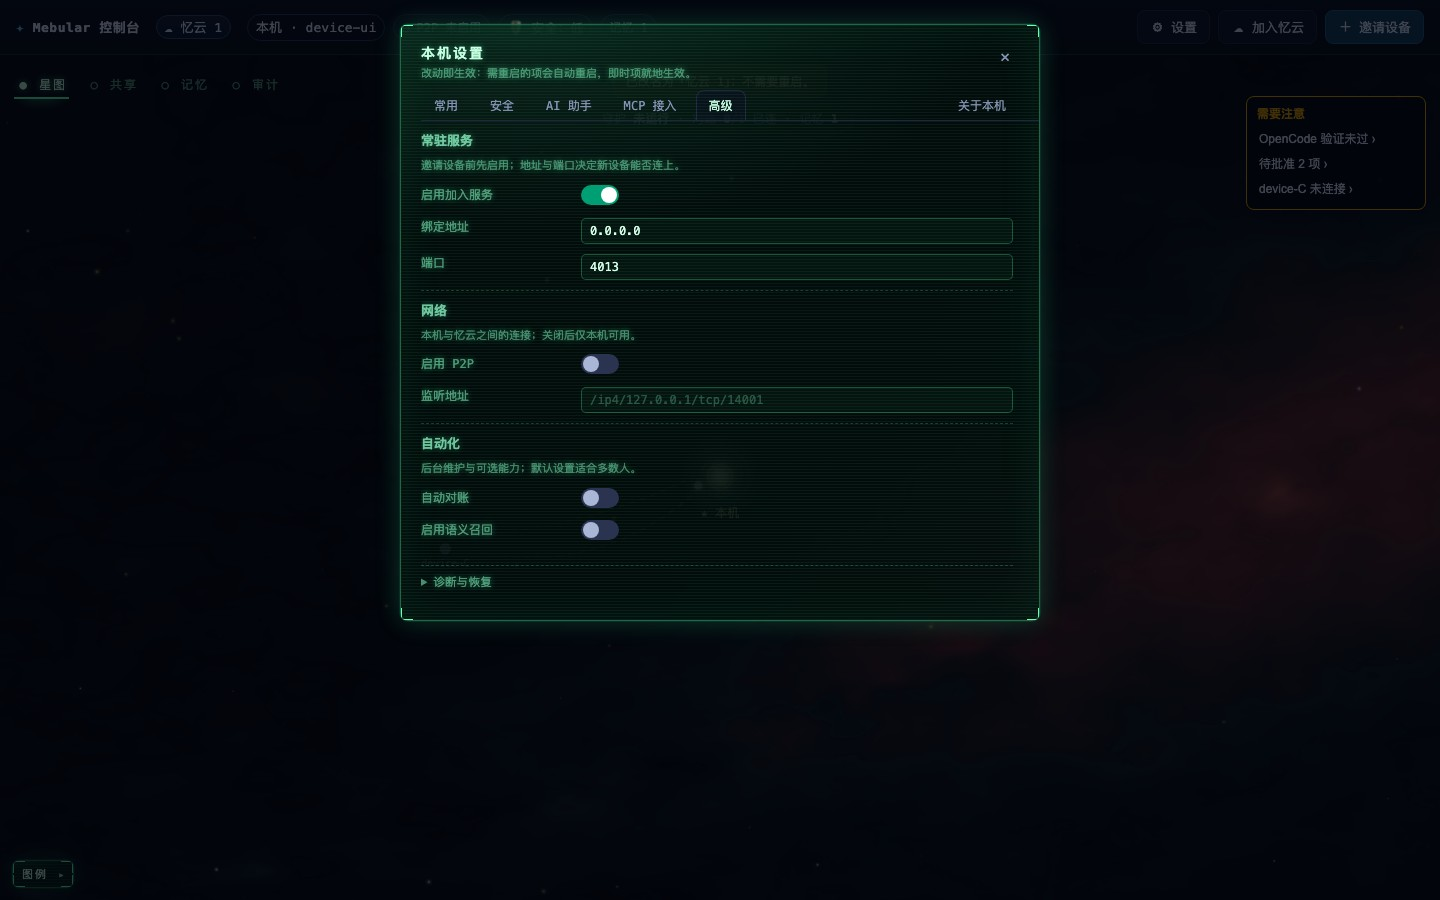
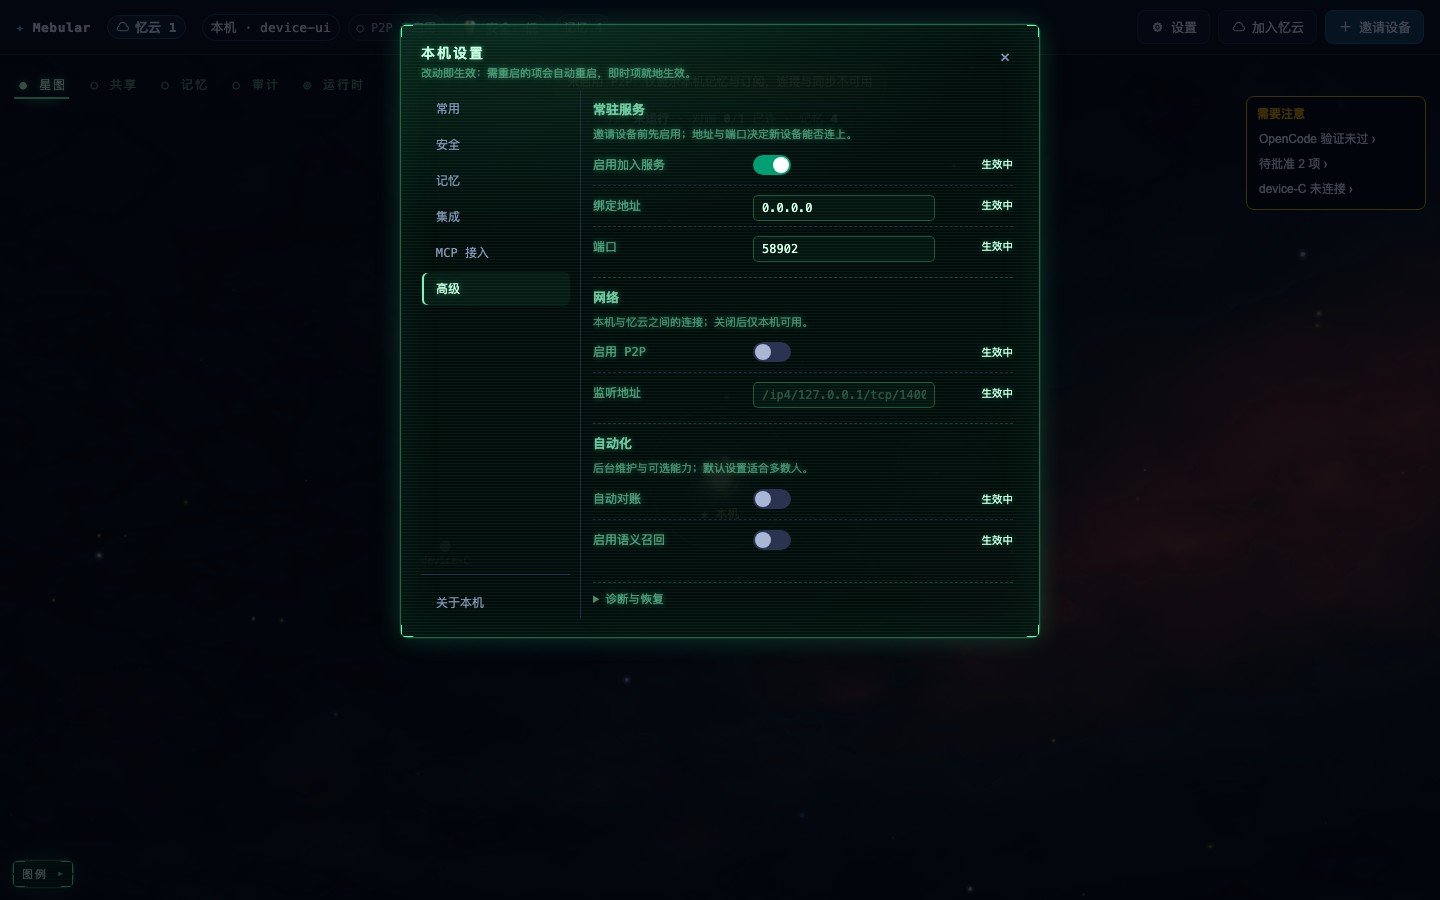
docs(console): refresh settings redesign baselines
- u4: 新增设置弹层改版基线（1440 常用/记忆/安全/MCP/高级、900 记忆/安全、
  390 常用/记忆/安全、en-US 记忆/安全/常用、reduced-motion、rail 固定、
  关于本机叠层），新增 README 说明范围/文件表/复跑命令/既有 fake-sidecar 失败。
- u1/u3: 刷新 U-4 后的设置截图（u1 常用 1440/390 改为脚本输出名），
  README 注明刷新范围与最新基线位置；page-map 增加 u4 目录链接。
- console.css: 640 外框减 160 竖轨后，en-US 常驻行动作按钮被挤出内容列
  （桌面 i18n 密度断言 1440/1024 scrollerOver=75）；按向导/修复行同一策略
  收紧 .settings-resident，修复后 scrollerOver=0。
- verify-console-ui.mjs: 英文深度页断言期待旧文案 Add assistant，
  实际与中文“＋ 接入 Agent”一致为 + Add agent，改为 /Add agent/。

diff --git a/packages/console/console.css b/packages/console/console.css
@@ -1891,6 +1891,13 @@ body.modal-open { overflow: hidden; }
 .asst-detail-actions { display: flex; flex-wrap: wrap; gap: 6px; margin-top: 6px; }
 .asst-output { margin-top: 4px; }
 .settings-resident { margin-bottom: 4px; }
+/* U-4 收口：640 外框 − 160px 竖轨后内容列约 420px；英文「Not resident (temporary)」等长状态
+   会把动作按钮挤出可视区。常驻行与重启向导/自动修行同一策略：名称不占固定宽、说明可收缩换行、
+   动作按钮永不收缩；≤760 的整行换行规则继续生效。 */
+.settings-resident .asst-name { flex: 0 1 auto; min-width: 0; }
+.settings-resident .asst-st { flex: 1 1 auto; min-width: 0; overflow-wrap: anywhere; }
+.settings-resident .asst-sp { flex: 0 1 0; min-width: 0; }
+.settings-resident .asst-row .btn { flex: 0 0 auto; white-space: nowrap; }
 /* 语言行：专用单行控件 + 虚线分隔（不复用 .asst-row，不另起卡片）。
    控件外观对齐 .crt-input：同高、同边框/圆角/底色/focus ring；原生箭头隐藏后
    由 wrapper 的固定 chevron 承担，避免各平台 select 外观漂移。 */

diff --git a/docs/console/screens/u4-settings-redesign/README.md b/docs/console/screens/u4-settings-redesign/README.md
@@ -1,0 +1,104 @@
+# U-4 · 设置弹层改版（竖轨 + 统一行模板 + 安全卡状态）截图基线
+
+基线：`feat/console-settings-redesign` 的 A–E 六次提交之后（rebase 前 E 提交为 `0d1d43b`）。本目录补的是 U-4 改版后的设置弹层视觉基线；U-1 / U-3 目录里对应的 after 截图已同步刷新。
+
+## 范围
+
+- **竖轨**：≥901px 为左侧 160px 固定页签轨（`常用 / 安全 / 记忆 / 集成 / MCP 接入 / 高级`，底部「关于本机」）；≤900px 折叠为顶部横排；≤760px 继续换行。
+- **固定外壳**：标题 + 「改动即生效」提示常驻，页签轨不滚，只有内容列 `.settings-scroll` 滚动；滚动时轨与底部「关于本机」不动。
+- **统一行模板**：字段行 `label | control | status` 三列，只读行 `label | value | action`；正常状态显示纯文字「生效中」，异常才是琥珀「待重启 / 未生效」。
+- **模型来源在记忆页**：`记忆` 页签内「记忆模式 → 模型来源 → 模型状态 → 运行状态」，高级页不再混入模型来源。
+- **安全卡状态**：三张状态卡（安全等级 / 动态码种子 / 恢复码），`is-effective`（实心点 + 左侧荧光条）/ `is-off`（空心点 + 中性底）；待批准行只在有记录时出现。
+- **关于本机叠层**：设置轨底部「关于本机」在设置之上打开只读面板，设置保持打开。
+
+## 截图
+
+### 1440 × 900（zh-CN）
+
+| 文件 | 说明 |
+|---|---|
+| `u4-after-settings-common-1440.jpg` | 常用：语言行 + 常驻运行 + 自动修复 + 只读状态 + 忆云卡 |
+| `u4-after-settings-memory-1440.jpg` | 记忆：记忆模式 / 模型来源（唯一入口）/ 模型状态 / 运行状态 |
+| `u4-after-settings-security-1440.jpg` | 安全：三张状态卡 = 生效（等级）+ 未配置（种子/恢复码） |
+| `u4-after-settings-mcp-1440.jpg` | MCP 接入：连接 / TLS 两组 + 三列状态列 |
+| `u4-after-settings-advanced-1440.jpg` | 高级：常驻服务 / 网络 / 自动化 + 诊断与恢复折叠 |
+| `u4-after-settings-rail-scrolled-1440.jpg` | 记忆页滚到中部：标题、竖轨、底部「关于本机」保持不动 |
+| `u4-after-settings-about-overlay-1440.jpg` | 关于本机叠在设置之上（设置不关闭） |
+
+### 900 × 900（zh-CN，竖轨折叠为顶部横排）
+
+| 文件 | 说明 |
+|---|---|
+| `u4-after-settings-memory-900.jpg` | 记忆：顶部横排页签 + 长内容滚动 |
+| `u4-after-settings-security-900.jpg` | 安全：三张状态卡在横排页签下不溢出 |
+
+### 390 × 844（zh-CN，无横向滚动）
+
+| 文件 | 说明 |
+|---|---|
+| `u4-after-settings-common-390.jpg` | 常用：页签换行、常驻/修复行不挤压按钮 |
+| `u4-after-settings-memory-390.jpg` | 记忆：模型来源下拉整行 |
+| `u4-after-settings-security-390.jpg` | 安全：三张状态卡单列 |
+
+### en-US（1440）
+
+| 文件 | 说明 |
+|---|---|
+| `u4-after-settings-memory-en-1440.jpg` | 记忆：英文长文案在 420px 内容列内正常换行 |
+| `u4-after-settings-security-en-1440.jpg` | 安全：英文状态词 + 状态卡 |
+| `u4-after-settings-common-en-1440.jpg` | 常用：英文「Not resident (temporary)」不再把「Keep Mebular resident」挤出可视区 |
+
+### reduced-motion（1440）
+
+| 文件 | 说明 |
+|---|---|
+| `u4-after-settings-memory-reduced-motion.jpg` | `prefers-reduced-motion: reduce` 下记忆页（去掉过渡/闪烁，布局不变） |
+
+## 复跑命令
+
+官方脚本（会因「本地模型来源」段既有 fake-sidecar 缺陷中断，见下）：
+
+```bash
+CHROME_PATH='/Users/sobertli/Library/Caches/ms-playwright/chromium-1248/chrome-mac-x64/Google Chrome for Testing.app/Contents/MacOS/Google Chrome for Testing' \
+  npm run verify:console:ui
+```
+
+只要截图时，复制 `packages/console/scripts/verify-console-ui.mjs` 为同目录临时文件（保证相对 import 不变），跳过「本地模型来源」失败段（`capture('c6-settings-memory-model-source.jpg')` 之后到 `[data-settings-tab=assistants]` 点击之前），然后：
+
+```bash
+MEBULAR_SCREENSHOT_DIR=/tmp/mebular-u4-shots U4_SKIP_LOCAL_MODELS=1 \
+CHROME_PATH='/Users/sobertli/Library/Caches/ms-playwright/chromium-1248/chrome-mac-x64/Google Chrome for Testing.app/Contents/MacOS/Google Chrome for Testing' \
+  node packages/console/scripts/verify-console-ui-u4-tmp.mjs
+```
+
+临时脚本跑完即删，不入库。u1/u3/u4 截图从 `MEBULAR_SCREENSHOT_DIR` 拷回本仓库对应目录。
+
+## 已知既有失败（非本次 UI 改动）
+
+官方 `verify:console:ui` 在「本地模型来源」段固定失败 **5 条**（fake sidecar 报 `model-source available:false`，随后模型卡不存在导致 null click 中断）：
+
+1. `记忆模型来源：5 个来源、默认 heuristic、无 endpoint/key/path 明文`
+2. `C8f local 选中：同一模型来源设置项内出现 4 个模型`
+3. `C8f local 选中不立刻写 model-source（避免 pack_required）`
+4. `C8f 模型列表 760px：单列卡片、无横向滚动`
+5. `UI 冒烟执行（页面求值失败：TypeError: Cannot read properties of null (reading 'click')）`
+
+A–E 已分别确认与本次 UI 改动无关；本会话按要求不改 API/config/core 去“修”它。跳过后其余 **415 项全绿**（连跑两次一致）。
+
+## 人工走查结论
+
+| 检查项 | 结论 |
+|---|---|
+| 1440 / 900 / 390 三档 | 1440 竖轨 160px；900 折顶部横排（`aria-orientation=horizontal`，轨宽 = 内容列宽）；390 页签换行、无横向滚动（探针 `scrollWidth <= clientWidth + 1`）。 |
+| 中 / 英 | 中文与 en-US 均不裁切按钮、不产生弹框内横向溢出；en-US 常驻行动作按钮右边界在滚动区内（`btnRight = -446`，完全不越界）。 |
+| reduced-motion | `prefers-reduced-motion: reduce` 下无位移动画依赖，布局与常规一致。 |
+| 滚动时 rail 固定 | 记忆页 `scrollTop > 0` 时 rail / rail-foot 的 `getBoundingClientRect().top` 变化 ≤1px；滚动只发生在 `.settings-scroll`。 |
+| 关于本机叠层 | 设置轨底部「关于本机」打开 `#about` 时 `#settings` 仍可见，层级正确。 |
+| 安全卡三种状态 | 当前低档：安全等级 = 生效（实心点/荧光条），动态码种子 = 未导入（`is-off`），恢复码 = 未生成（`is-off`）；待批准条只在有记录时出现。高档/待批准/恢复码基线见 `../u3/` 与 `../security-tiers/`。 |
+| 模型来源在记忆页 | 记忆页含唯一 `#rt-model-source`；高级页断言 `!p.querySelector('#rt-model-source')` 通过。 |
+| 无横向滚动 | 官方脚本 390px 断言（安全 / MCP / 高级）通过；新增常用 / 记忆 390px 探针同样通过。 |
+
+## 本会话顺带修复（属 UI/测试收口，不改核心）
+
+1. `packages/console/console.css`：640 外框减 160 竖轨后内容列仅约 420px，en-US 常驻行的长状态文本把动作按钮挤出可视区（官方 i18n 密度断言 1440/1024 报 `scrollerOver=75`）。按「重启向导 / 自动修复」行同一策略收紧 `.settings-resident`：名称不占固定宽、状态可收缩换行、按钮不收缩。修复后 `scrollerOver=0`。
+2. `packages/console/scripts/verify-console-ui.mjs`：英文深度页断言仍期待旧文案 `Add assistant`，而实际文案与中文「＋ 接入 Agent」一致为 `+ Add agent`（i18n 翻译提交起就存在），改为 `/Add agent/`。

diff --git a/docs/console/screens/u1/README.md b/docs/console/screens/u1/README.md
@@ -2,6 +2,8 @@
 
 基线：main `f1a1219`。截图由 `verify-console-ui.mjs`（真实 serve + headless Chrome）与同一临时 home 的 Playwright 截图生成。
 
+> **U-4 刷新（2026-11-09）**：设置弹层改为「左侧竖轨 + 固定外壳 + 统一行模板」，常用页基线已刷新为 `u1-after-settings-common.jpg`、`u1-after-settings-common-390.jpg`（脚本原始输出名 `u1-after-settings-common*`）。旧 `after-settings-common*.jpg` 已移除。安全 / MCP / 高级的后续基线以 `../u3/` 为准，U-4 全量基线见 `../u4-settings-redesign/`。
+
 ## 折叠预算
 
 | 范围 | before | after |
@@ -15,7 +17,7 @@
 
 | 文件 | 说明 |
 |---|---|
-| `before-settings-common.jpg` / `after-settings-common.jpg` | 设置·常用：删除重复「邀请设备」入口；统一 section 标题/间距；无卡片套卡片 |
+| `before-settings-common.jpg` / `u1-after-settings-common.jpg` | 设置·常用（U-4 竖轨版已刷新）：删除重复「邀请设备」入口；统一 section 标题/间距；无卡片套卡片；语言行 + 常驻/修复行 |
 | `before-settings-advanced.jpg` / `after-settings-advanced.jpg` | 高级：页级说明改为一行；字段帮助内联；底部诊断折叠 |
 | `before-settings-mcp.jpg` / `after-settings-mcp.jpg` | MCP 接入：六字段 + 一个「危险与自救」折叠 |
 | `before-settings-security.jpg` / `after-settings-security.jpg` | 安全：有资格设备一行计数；档位边界内联 |
@@ -23,7 +25,7 @@
 | `before-shared-empty.jpg` / `after-shared-empty.jpg` | 共享页空态：只留「＋ 新建记忆域」 |
 | `before-shared-list.jpg` / `after-shared-list.jpg` | 共享页有域：域目录/订阅状态/参与设备；无邀请 CTA |
 | `before-invite.jpg` / `after-invite.jpg` | 历史截图：邀请单屏（当时含「邀请设备 · 详情」；该折叠已移除，现为 TTL + 重新生成） |
-| `after-settings-common-390.jpg` | 390px 设置·常用：无横向溢出 |
+| `u1-after-settings-common-390.jpg` | 390px 设置·常用（U-4 刷新）：页签换行、常驻/修复行不挤压按钮、无横向溢出 |
 
 ## 文案/动作断言
 

diff --git a/docs/console/page-map.md b/docs/console/page-map.md
@@ -24,7 +24,7 @@ IA 单一真源在 [`packages/console/settings-ia.js`](../../packages/console/se
 
 **术语**：用户可见文案中表示本机所处共享网络的「网络 / Mebular」统一为「**忆云**」；产品名「Mebular 控制台」不变，「记忆域 / 记忆」不变。
 
-E1 前后对比截图：[`screens/e1/`](screens/e1/)。U-1 设置/共享页收口前后对比：[`screens/u1/`](screens/u1/)。U-3 设置页设计收口（安全 / MCP / 高级）前后对比：[`screens/u3/`](screens/u3/)。
+E1 前后对比截图：[`screens/e1/`](screens/e1/)。U-1 设置/共享页收口前后对比：[`screens/u1/`](screens/u1/)。U-3 设置页设计收口（安全 / MCP / 高级）前后对比：[`screens/u3/`](screens/u3/)。U-4 设置弹层改版（竖轨 + 统一行模板 + 安全卡状态）基线：[`screens/u4-settings-redesign/`](screens/u4-settings-redesign/)。
 
 **顶栏（E1/E2-A2）**：品牌后是当前**忆云**徽章（名字只取 `overview.cloud.name`；旧守护没有该字段时隐藏，绝不按端口/目录猜）。操作为对称的「加入忆云」（次要）与「邀请设备」（主），窄屏折叠为图标；「连接已有地址」已撤下——它实际是**网内传输修复**，入口移到「高级 → 诊断与恢复 → 手动连接已知设备…」与设备卡「连不上？手动连接…」（不改变入网信任、不签发授权）。
 

diff --git a/docs/console/screens/u3/README.md b/docs/console/screens/u3/README.md
@@ -2,6 +2,8 @@
 
 基线：`openchamber/ui-consistency` `6475131`（#145，含 `f08091f` 新建域弹窗与 `6475131` 小弹窗居中）。本分支只改 `packages/console/**`、`tests/console/**`、`docs/console/**`；不改配置能力、行为或协议。
 
+> **U-4 刷新（2026-11-09）**：设置弹层改为「左侧 160px 竖轨（≤900 折顶部横排）+ 固定外壳 + 统一行模板」后，本目录 `u3-after-settings-advanced*.jpg`、`u3-after-settings-mcp*.jpg`、`u3-after-settings-security*.jpg` 已按同一脚本重新生成；下方「主 section 数 / 文本量」等 U-3 结论不变，仅视觉外壳变化。U-4 全量基线见 `../u4-settings-redesign/`。
+
 ## 1. 现状 sections → 目标 sections
 
 | Tab | 现状（before） | 目标（after） | 主 section 数 |
